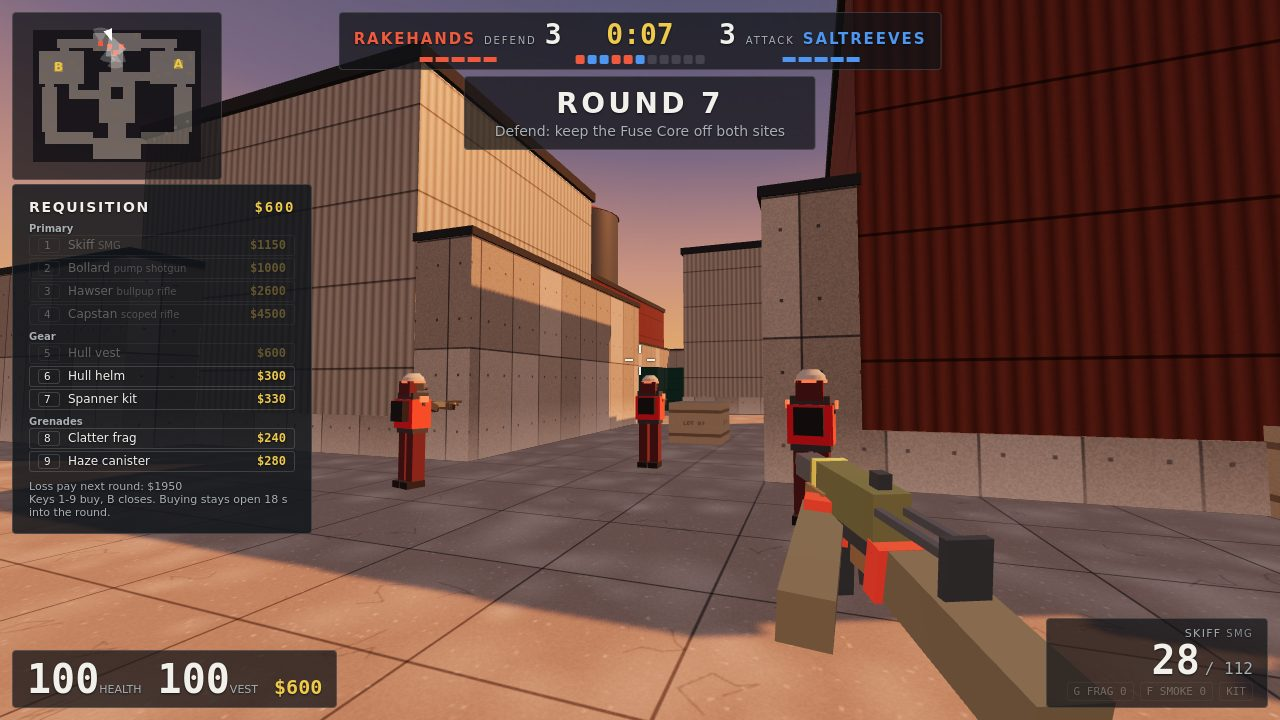
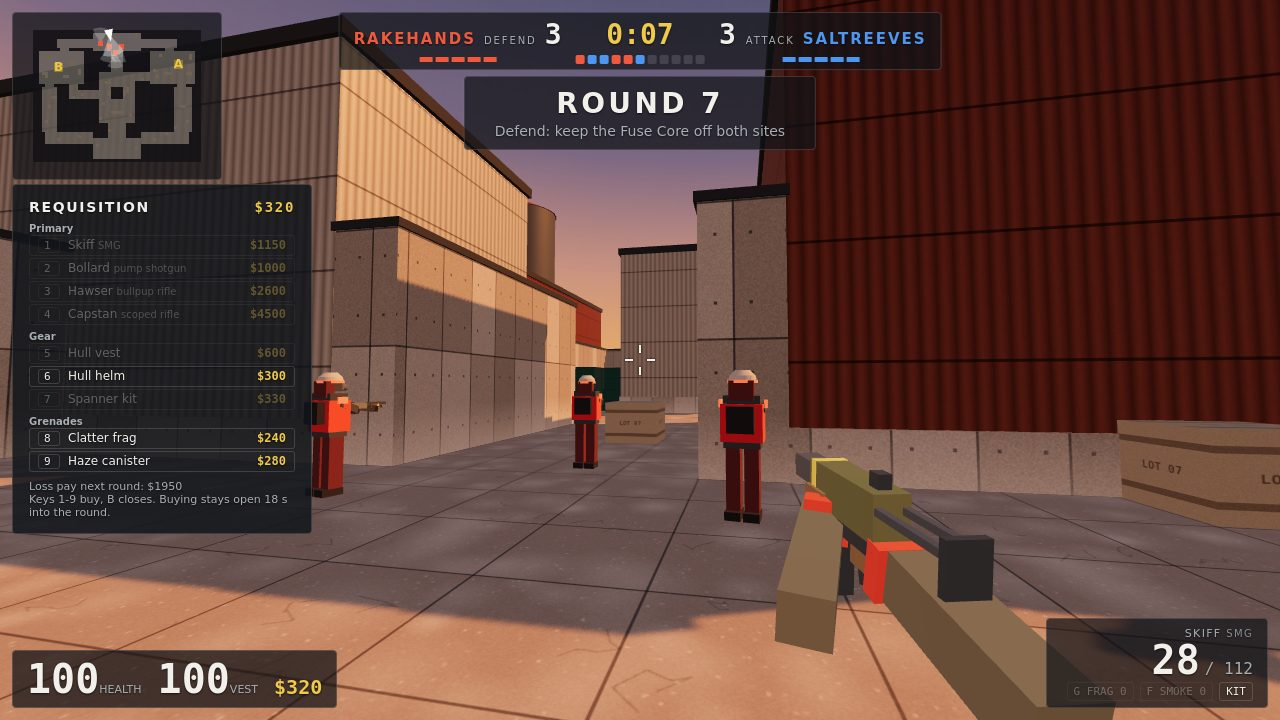
Shot 2: vest, Skiff and kit bought, $320 left; all three teammates clear of the gun
Scene 2 buys the kit too from $2400 (header and HUD $320): every dimmed row is now too dear,
the helm and grenades stay lit, the HUD KIT chip lights for a defender. The view turns a little
left (aim 26.5, 8) so the right teammate stands beside the Skiff instead of behind it and the
left one sits just clear of the menu; the ROUND 7 banner is off every head. tools/ only.
Fresh screenshots.

diff --git a/tools/stage.js b/tools/stage.js
@@ -30,12 +30,13 @@ const SCENES = {
       s.p.cmd.fire = i === 12 || i === 31;
     } },
   // Buy time in the defenders' yard, the low sun across the cladding, teammates armed differently; the
-  // player buys a vest and a Skiff through the menu's own buy() and has the SMG up by the frame.
-  2: { side: 1, round: 7, phase: 'freeze', ticks: 44, buy: true, money: 2350, bare: true,
+  // player buys a vest, a Skiff and the kit through the menu's own buy(): $320 left, so every dimmed row
+  // is too dear and the helm and grenades stay lit.
+  2: { side: 1, round: 7, phase: 'freeze', ticks: 44, buy: true, money: 2400, bare: true,
     cast: [['p', 25, 1, 27, 8], ['m0', 25, 5, 24, 12, 'skiff'], ['m1', 29, 5, 28, 9, 'bollard'], ['m2', 27, 7, 27, 12, 'hawser']],
     script(i, s) {
-      if (!i) for (const id of ['vest', 'skiff']) buy(s.ctx.state, s.p, { id });
-      s.aim(null, 0.05, 27.5, 8);
+      if (!i) for (const id of ['vest', 'skiff', 'kit']) buy(s.ctx.state, s.p, { id });
+      s.aim(null, 0.05, 26.5, 8);
       if (i === 40) for (let k = 0; k < 2; k++) s.ctx.view.render(1, 1, s.ctx.input.look); // settle the gun's sway from the jump in look
     } },
   // Arming on B: a teammate arms the Fuse Core on the pad while the player covers from behind; the smoke
